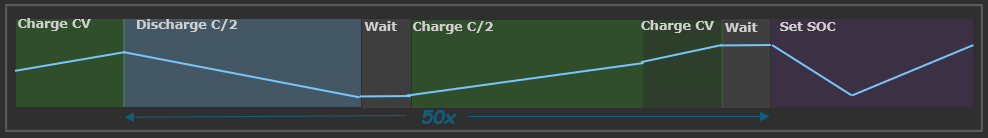
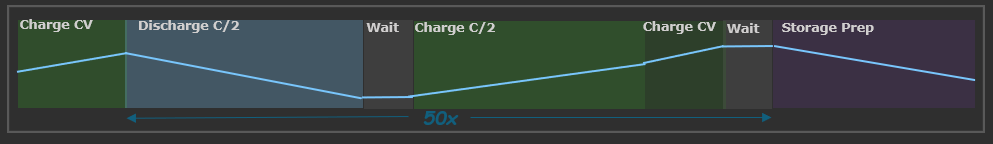
.

diff --git a/test-setup.html b/test-setup.html
@@ -2,7 +2,7 @@
     <div class="w3-row-padding" style="padding-bottom:25px;">
         <div class="w3-padding w3-col s12 w3-large">
             <!-- <div style="height:100px;background: linear-gradient(to bottom right, white, white 50%, green 50%, green);">&nbsp;</div> -->
-            <span class="w3-xlarge color-current">19d 2/C Charge / Discharge <span class="w3-medium color-zero">v003</span>
+            <span class="w3-xlarge color-current">19d 2/C Charge - Discharge <span class="w3-medium color-zero">v003</span>
 
                 <img src="./assets/test-profile.png" width="100%" style="padding-top:30px;padding-bottom:30px;" />
                 <br />
@@ -28,7 +28,7 @@
                             <!-- <td>CH01</td> -->
                             <td>CV</td>
                             <td>3.6</td>
-                            <td>Voltage >= 3.6</td>
+                            <td>Current < 100 mA</td>
                             <td>1h<i class="fa fa-pencil-square-o w3-right w3-xlarge" aria-hidden="true"
                                     style="cursor:pointer;color:#cecece;"
                                     onclick="document.getElementById('modal-test-setup').style.display='block'"></i><i
@@ -129,7 +129,7 @@
                         </tr>
                         <tr>
                             <td><span style="display:flex;">
-                                    <div class="" style="border-left:10px solid purple;">&nbsp;</div>&nbsp;Set SOC
+                                    <div class="" style="border-left:10px solid purple;">&nbsp;</div>&nbsp;Storage Prep
                                 </span></td>
                             <!-- <td>CH01</td> -->
                             <td></td>
@@ -210,19 +210,19 @@
                             <div class="w3-col s4 w3-padding">
                                 <label>Variable <i class="fa fa-info-circle color-time" aria-hidden="true"
                                         style="cursor:pointer;"></i></label>
-                                <input name="serial_number" class="w3-input w3-large color-time" type="text" value="V">
+                                <input name="serial_number" class="w3-input w3-large color-time" type="text" value="I">
                             </div>
 
                             <div class="w3-col s4 w3-padding">
                                 <label>Condition <i class="fa fa-info-circle color-time" aria-hidden="true"
                                         style="cursor:pointer;"></i></label>
-                                <input name="serial_number" class="w3-input w3-large color-time" type="text" value=">=">
+                                <input name="serial_number" class="w3-input w3-large color-time" type="text" value="<">
                             </div>
 
                             <div class="w3-col s4 w3-padding">
                                 <label>Value <i class="fa fa-info-circle color-time" aria-hidden="true"
                                         style="cursor:pointer;"></i></label>
-                                <input name="serial_number" class="w3-input w3-large color-time" type="text" value="3.6">
+                                <input name="serial_number" class="w3-input w3-large color-time" type="text" value="100 mA">
                             </div>
 
                             <div class="w3-col s12 w3-padding color-font w3-xlarge" style=""><br />Step Limits
@@ -230,17 +230,17 @@
 
                             <div class="w3-col s4 w3-padding">
                                 <label>Variable</label>
-                                <input name="serial_number" class="w3-input w3-large color-time" type="text" value="T">
+                                <input name="serial_number" class="w3-input w3-large color-time" type="text" value="POUCH_CENTER">
                             </div>
 
                             <div class="w3-col s4 w3-padding">
-                                <label>Min °C</label>
-                                <input name="serial_number" class="w3-input w3-large color-time" type="text" value="21">
+                                <label>Min</label>
+                                <input name="serial_number" class="w3-input w3-large color-time" type="text" value="-">
                             </div>
 
                             <div class="w3-col s4 w3-padding">
-                                <label>Max °C</label>
-                                <input name="serial_number" class="w3-input w3-large color-time" type="text" value="24">
+                                <label>Max</label>
+                                <input name="serial_number" class="w3-input w3-large color-time" type="text" value="60 °C">
                             </div>
 
                             <div class="w3-col s12 w3-padding w3-center w3-large" style="min-height:120px;padding-top:30px !important;">

diff --git a/system-setup.html b/system-setup.html
@@ -172,11 +172,11 @@
                     <div class="w3-row w3-large" style="padding-bottom:25px;padding-top:10px;">
                         <div class=" w3-col s2 _w3-padding">
                             <div class="w3-col s10 _w3-padding">
-                                <table class="w3-table w3-bordered">
-                                    <tr class="color-font">
+                                <table class="w3-table w3-bordered w3-xlarge">
+                                    <!-- <tr class="color-font w3-large color-font">
                                         <th>Channel <i class="fa fa-info-circle" aria-hidden="true"
                                                 style="cursor:pointer;color:#cecece;"></i></th>
-                                    </tr>
+                                    </tr> -->
                                     <tr style="cursor:pointer;">
                                         <td>CH01</td>
                                     </tr>
@@ -204,14 +204,13 @@
                                 </table>
                             </div>
                         </div>
-                        <div class="w3-col s10 _w3-padding">
+                        <div class="w3-col s10 _w3-padding" style="border-left:1px solid;">
                             <table class="w3-table w3-bordered">
                                 <tr class="color-font">
                                     <th width="15%">Location <i class="fa fa-info-circle" aria-hidden="true"
                                             style="cursor:pointer;color:#cecece;"></i></th>
                                     <th width="25%">Variable Name</th>
-                                    <th>Comment<i class="fa fa-plus-square-o w3-xlarge w3-right color-font"
-                                            aria-hidden="true" style="cursor:pointer;"></i></th>
+                                    <th>Comment</th>
                                 </tr>
                                 <tr>
                                     <td class="color-zero">Shared</td>
@@ -259,12 +258,18 @@
                                     <td class=""> <i class="fa fa-pencil-square-o w3-right" aria-hidden="true"
                                             style="cursor:pointer;color:#cecece;"></i></td>
                                 </tr>
+                                <tr>
+                                    <td class=""></td>
+                                    <td class=""></td>
+                                    <td class=""> <i class="fa fa-plus-square-o w3-right w3-xlarge" aria-hidden="true"
+                                            style="cursor:pointer;"></i></td>
+                                </tr>
                             </table>
                         </div>
                     </div>
                 </div>
 
-                <div id="channel-assignment-view-locations" class="" style="display:none">
+                <div id="channel-assignment-view-locations" class="" style="display:none;">
                     <div id="table-mapping-configuration"
                         style="_max-height:370px;overflow: auto;scrollbar-color: #5d5d5d #2f2f2f;">
                         <table class="w3-table w3-bordered w3-large" style="margin-top:10px;margin-bottom:25px;">

diff --git a/index.html b/index.html
@@ -255,7 +255,7 @@
                     <!-- COLUMN 3 -->
                     <div class="w3-col s4" style="display:flex;flex-direction:column;align-items:flex-start;">
                         <span class="color-current w3-medium" style="margin-top: 12px;margin-left:10px;"><span
-                                class="color-font">Procedure: </span>TXW2345-02</span>
+                                class="color-font">Procedure: </span>TXW2345-02 <span class="color-time">...</span></span>
                         <span class="color-current w3-medium" style="margin-left:10px;"><span class="color-font">Step
                                 Name: </span>Constant
                             Current Charge</span>
@@ -268,7 +268,7 @@
                     <!-- COLUMN 4 -->
                     <div class="w3-col s2" style="display:flex;flex-direction:column;align-items:flex-start;">
                         <span class="color-current w3-medium" style="margin-top: 12px;"><span
-                                class="color-font">Chemistry: </span>LiFo</span>
+                                class="color-font">Battery: </span>2987-08 <span class="color-time">...</span></span>
                         <span class="color-current w3-medium"><span class="color-font">Rated Capacity: </span>2</span>
                         <span class="color-current w3-medium"><span class="color-font">Max Voltage: </span>3.8</span>
                         <span class="color-current w3-medium"><span class="color-font">Max Current:
